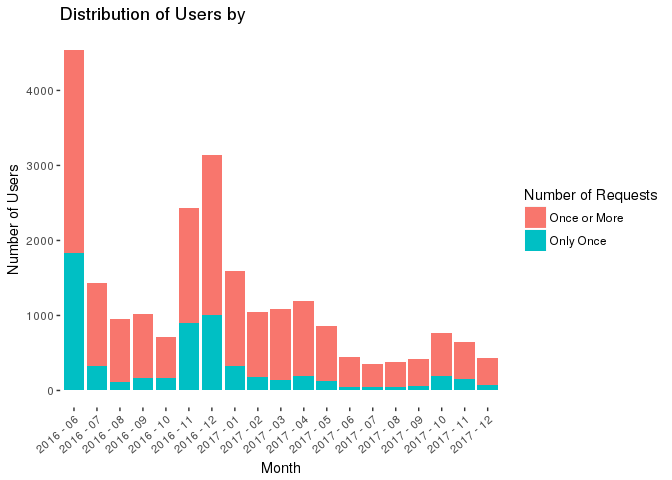
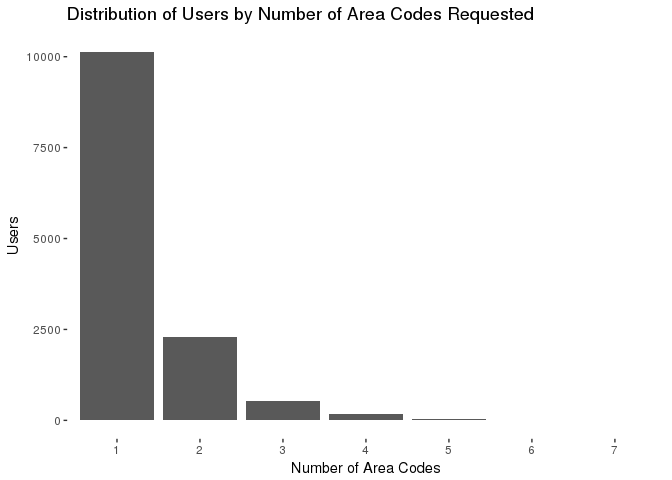
commit edited white paper

Changed region(s): [[0.0, 0.0938, 0.75, 1.0], [0.0938, 0.0, 0.8125, 0.0625], [0.7812, 0.375, 0.9688, 0.5312]]

diff --git a/White Paper/Final_White_Paper.md b/White Paper/Final_White_Paper.md
@@ -132,46 +132,112 @@ We began by characterizing the average user. In total, 13,239 different users re
 The above table shows the descriptive statistics of the distribution of the number of times individual users requested information. With a mean of 4.63 and median of 2, the distribution of the number of requests by individual users, suggesting that many of the system’s phone numbers request information only a few times.
 
 ``` r
-# Calcaulate the number of requests for each kind of information
+LTS_yearmonth <-  LTS_data %>%
+  mutate(Date = ymd(Date)) %>%
+  mutate(Year = year(Date), month = month(Date)) %>%
+  mutate(month = ifelse(nchar(as.character(month)) == 1, paste("0", sep = "", as.character(month)), as.character(month))) %>%
+  mutate(year_month = paste(as.character(Year), "-", month)) 
 
-Correct %>% 
-  filter(request <4, request > 0) %>%
-  group_by(request) %>%
-  summarise(num = n())
+p <- LTS_yearmonth %>%
+  filter(Type == "in") %>%
+  group_by(id) %>%
+  summarize(n = n()) %>%
+  filter(n == 1) %>%
+  select(id)
+pp <- as.vector(p$id)
+
+LTS_yearmonth %>%
+  mutate(only_once = id %in% pp) %>%
+  mutate(usage = ifelse(only_once == TRUE, "Only Once", "More Than Once")) %>%
+  group_by(year_month, usage) %>%
+  distinct(id)  %>%
+  summarize(n = n()) %>%
+  mutate(prop = n/sum(n)) %>%
+  mutate(only_once = usage) %>%
+  ggplot(aes(x = year_month, y = prop, fill = usage)) + geom_col()+
+  theme(axis.text.x = element_text(angle = 40, hjust = 1)) +
+ labs(title = "Proporiton of Users by Number of Information Requests", x = "Month", y = "Number of Users", fill = "Total") + theme(panel.grid.major = element_blank(), panel.grid.minor = element_blank(), panel.background = element_blank())
 ```
 
-    ## # A tibble: 3 x 2
-    ##   request   num
-    ##   <chr>   <int>
-    ## 1 1       36188
-    ## 2 2       14628
-    ## 3 3        1349
+![](Final_White_Paper_files/figure-markdown_github/unnamed-chunk-2-1.png)
 
 ``` r
-# Number of users asking for each kind of request
+LTS_yearmonth %>%
+  mutate(only_once = id %in% pp) %>%
+  mutate(usage = ifelse(only_once == TRUE, "Only Once", "More Than Once")) %>%
+  group_by(year_month, usage) %>%
+  distinct(id)  %>%
+  summarize(n = n()) %>%
+  mutate(prop = n/sum(n)) %>%
+  filter(usage == "Only Once") %>%
+  arrange(desc(prop))
+```
+
+    ## # A tibble: 19 x 4
+    ## # Groups:   year_month [19]
+    ##    year_month usage         n  prop
+    ##    <chr>      <chr>     <int> <dbl>
+    ##  1 2016 - 06  Only Once  1828 0.403
+    ##  2 2016 - 11  Only Once   905 0.372
+    ##  3 2016 - 12  Only Once  1007 0.321
+    ##  4 2017 - 10  Only Once   194 0.253
+    ##  5 2017 - 11  Only Once   151 0.232
+    ##  6 2016 - 10  Only Once   162 0.229
+    ##  7 2016 - 07  Only Once   321 0.225
+    ##  8 2017 - 01  Only Once   325 0.204
+    ##  9 2017 - 12  Only Once    79 0.181
+    ## 10 2017 - 02  Only Once   176 0.169
+    ## 11 2016 - 09  Only Once   170 0.167
+    ## 12 2017 - 04  Only Once   199 0.167
+    ## 13 2017 - 05  Only Once   120 0.140
+    ## 14 2017 - 09  Only Once    56 0.135
+    ## 15 2017 - 03  Only Once   141 0.129
+    ## 16 2016 - 08  Only Once   119 0.126
+    ## 17 2017 - 07  Only Once    43 0.122
+    ## 18 2017 - 08  Only Once    45 0.120
+    ## 19 2017 - 06  Only Once    49 0.111
+
+**Fig. 2** This bar plot represents the distribution of the proportion of unique users each month, separated into single-time users (blue) and users who requested information more than one time (red). Note that users counted in the red bar in one month may also be counted in the red bars in subsequent months.
+
+The graph above shows the monthly proportion of single-time versus multi-time users. Based on this distrubution, a significant proportion and consistent proportion of users appear to text into the LTS-2 system and then never request more information. The maximum proportion was in June 2016, at 40% with a minimum of 11% in June 2017. The peak in single-time users around November 2016 (37%) suggests an influx of new, single-time users, and is mirrored in a smaller peak around October/November 2017 (25 and 23% respetively). Any conclusion about seasonal usage is difficult given the newness of the LTS system, though the apparent trend seems to be towards fewer non-repeat users in the summer months (June, July, August, and September).
+
+``` r
+LTS_yearmonth%>%
+  filter(Type == "in") %>%
+  mutate(only_once = id %in% pp) %>%
+    mutate(usage = ifelse(only_once == TRUE, "Only Once", "More Than Once")) %>% group_by(usage) %>% distinct(id)  %>%
+     summarize(n = n())
+```
+
+    ## # A tibble: 2 x 2
+    ##   usage              n
+    ##   <chr>          <int>
+    ## 1 More Than Once  7241
+    ## 2 Only Once       5998
+
+| Usage Type     | Number of Users |
+|----------------|-----------------|
+| Total          | 13239           |
+| Once           | 5998            |
+| More Than Once | 7241            |
+
+**Table 3** Table of the number users who either requested information one time or more than one time compared to the total number users.
+
+To have a sense for the actual number of users who only used the system once, we generated the above table, which shows that there is a significant number of people who requested information a single time.
+
+``` r
+# Calculate the number of requests for each kind of information
 
 Correct %>% 
   filter(request <4, request > 0) %>%
-  distinct(id, .keep_all = TRUE) %>%
   group_by(request) %>%
   summarise(num = n()) %>%
-  arrange(desc(num))
+ggplot(aes(y = num, x = request)) + geom_col() + coord_flip() + labs(title = "Numbers of Requests by Information Type", x = "Type", y = "Number of Requests")
 ```
 
-    ## # A tibble: 3 x 2
-    ##   request   num
-    ##   <chr>   <int>
-    ## 1 1        8650
-    ## 2 2        2938
-    ## 3 3         288
+![](Final_White_Paper_files/figure-markdown_github/unnamed-chunk-4-1.png)
 
-| Type of Request  | Number of Requests |
-|------------------|--------------------|
-| 1-3 Day Forecast | 36,188             |
-| 4-6 Day Forecast | 14,628             |
-| Pasture          | 1,349              |
-
-**Table 2** Total counts of requests for each of the three types of information offered by the LTS-2 system: 1-3 day forecast, 4-6 day forecast, and pasture information.
+**Fig. 3** Counts of requests for each of the three types of information offered by the LTS-2 system represented by an integer between 1 and 3. 1 represents a request for a 1-3 day forecast, 2 represents a 4-6 day forecast, and 3 a pasture information.
 
 Users seem mostly interested in weather information. Of the approximately 52,000 correctly formatted messages (messages that contain only a five-digit area code, and a request code between 1 and 3), about 36,000 were for 1-3 day weather forecasts and 14,000 were for 4-6 day weather forecasts. In comparison, only about 1300 requests for pasture information, suggesting that weather information is the main type of information users are interested in.
 
@@ -188,7 +254,7 @@ In %>%
   ggplot(aes(x = n, y = nn)) + geom_col() + labs(title = "Distribution of Users by Number of Area Codes Requested", y = "Users", x = "Number of Area Codes") + theme(panel.grid.major = element_blank(), panel.grid.minor = element_blank(), panel.background = element_blank(),  axis.line = element_blank())
 ```
 
-![](Final_White_Paper_files/figure-markdown_github/unnamed-chunk-3-1.png)
+![](Final_White_Paper_files/figure-markdown_github/unnamed-chunk-5-1.png)
 
 ``` r
 In %>%
@@ -214,9 +280,9 @@ In %>%
     ## 10    10     4
     ## # ... with 23 more rows
 
-**Fig. 2** The distribution of number of area codes requested by service users. Most users only requested information about a single area code in the course of their use of the system.
+**Fig. 4** The distribution of number of area codes requested by service users. Most users only requested information about a single area code in the course of their use of the system.
 
-The above bar plot shows the distribution of the number of area codes for which users requested information. Most users only requested information for one area code (around 10,000) in their spand of their . Number of area codes drops off significantly after that, with about 2,500 users requesting 2. It’s difficult to know whether this pattern is at all related to the geographical location of users, because many users only queried the system a single time; however, using the shiny dashboard mapping geographical usage, it’s possible to gain some insight into the spatial distribution of users.
+The above bar plot shows the distribution of the number of area codes for which users requested information. Most users only requested information for one area code (around 10,000) in their spand of their . Number of area codes drops off significantly after that, with about 2,500 users requesting 2. It’s difficult to know whether this pattern is at all related to the geographical location of users, because many users only queried the system a single time; however, using the shiny dashboard mapping geographical usage, it’s possible to gain some insight into the spatial distribution of users. A general examination of the dashboard shows that requests are concentrated in the northern parts of the country. Apart from several southern area codes that receive a significant number of requests, there are almost no southern locations that receive forecast requests.
 
 ``` r
 bb <- In %>%
@@ -247,54 +313,20 @@ bb %>%
   theme(panel.grid.major = element_blank(), panel.grid.minor = element_blank(), panel.background = element_blank())
 ```
 
-![](Final_White_Paper_files/figure-markdown_github/unnamed-chunk-4-1.png)
+![](Final_White_Paper_files/figure-markdown_github/unnamed-chunk-6-1.png)
 
-**Fig. 3** Proportion of incoming messages that were incorrectly formatted and/or contained area codes that do not correspond real area codes.
+**Fig. 5** Proportion of incoming messages that were incorrectly formatted and/or contained area codes that do not correspond real area codes.
 
 The graph above shows the proportions of invalid messages each month, which are caused by incorrectly formatting and/or area codes that do not correspond to actual places. We see an overall decreasing pattern in the total proportion of invalid requests. The proportion of messages with incorrect formatting does not change much over time, while the use of non-existing area codes in messages tends to decrease. Incorrect formatting appears to be the most common and consistent type of user errors.
 
 Users were creative in their formatting of messages. Incorrect messages involved anything from requests for multiple types of information at a time or multiple area codes at a time, to entire sentences describing the information a user wanted. Given the relatively high proportion of incorrectly formatted messages over time, it may be helpful for the service to respond with formatting instructions to any unreadable messages. Currently, incorrectly formatted messages do not receive a response, so providing a response to incorrectly formatted messages may improve users’ interactions with the system.
 
-``` r
-LTS_yearmonth <-  LTS_data %>%
-  mutate(Date = ymd(Date)) %>%
-  mutate(Year = year(Date), month = month(Date)) %>%
-  mutate(month = ifelse(nchar(as.character(month)) == 1, paste("0", sep = "", as.character(month)), as.character(month))) %>%
-  mutate(year_month = paste(as.character(Year), "-", month)) 
+Looking at the ways individual users queried the system, a number of trends stand out. The first, given a mean 4.63 requests and a median of 2 requests per unique id, is that most users used the system a small number of times. Second, many users only query the system a single time, with monthly proportions of single-time users ranging between 11 and 40% between June 2016 and December 2017. Additionally, we found the majority of users only request information for a single area code. This observation may in part be due to the fact that many users only request information a single time. Finally, we found that incorrectly formatting message is a common user error, and is consistent over time. Focusing attention on improving user understanding of the system may improve peoples' experience with the system.
 
-p <- LTS_yearmonth %>%
-  filter(Type == "in") %>%
-  group_by(id) %>%
-  summarize(n = n()) %>%
-  filter(n == 1) %>%
-  select(id)
-pp <- as.vector(p$id)
+General Usage Patterns:
+=======================
 
-LTS_yearmonth %>%
-  mutate(only_once = id %in% pp) %>%
-  mutate(usage = ifelse(only_once == TRUE, "Only Once", "Once or More")) %>%
-  group_by(year_month, usage) %>%
-  distinct(id)  %>%
-  summarize(n = n()) %>%
-  mutate(prop = n/sum(n)) %>%
-  mutate(only_once = usage) %>%
-  ggplot(aes(x = year_month, y = n, fill = usage)) + geom_col()+
-  theme(axis.text.x = element_text(angle = 40, hjust = 1)) +
- labs(title = "Distribution of Users by ", x = "Month", y = "Number of Users", fill = "Number of Requests") + theme(panel.grid.major = element_blank(), panel.grid.minor = element_blank(), panel.background = element_blank())
-```
-
-![](Final_White_Paper_files/figure-markdown_github/unnamed-chunk-5-1.png)
-
-**Fig. 4** The dis
-
-The graph above shows the total number of users that texted into the system each month, along with the proportion of users that only ever text into the system once. Clearly, a significant portion of users text into the LTS-2 system and then never use it again. Any conclusion about seasonal usage is difficult given the newness of the LTS system, though the apparent trend seems to lower usage in the summer months (June, July, August, and September). Three months, in particular, stand out both as having the most number of users and a large proportion of one-time users: June, November, and December 2016.
-
-Looking at the ways individual users queried the system, two trends stand out. The first is that most users used the system a small number of times. The second is that the number of users is inconsistent over time.
-
-*General Patterns in Usage:*
-============================
-
-To get a better understanding of the ways users enter and exit the system, and to understand aggregate usage patterns, we looked at spatio-temporal usage.
+To get a better understanding of the ways users enter and exit the system, and to understand aggregate usage patterns, we focused at temporal usage.
 
 Since the dataset covers a relatively short period of time, we calculated monthly churn rates by dividing the number of users who used the system for the last time in a given month by the total number of users that month. The timeplot below shows this churn rate over time. Since we have no data for January 2018, December 2017 was excluded in the analysis.
 
@@ -363,7 +395,7 @@ ggplot(aes(x = date, y = churn)) + geom_line() + labs(title = "Monthly Churn Rat
 annotate("text", x = d, y = 0.62, label = c("November"))
 ```
 
-![](Final_White_Paper_files/figure-markdown_github/unnamed-chunk-6-1.png)
+![](Final_White_Paper_files/figure-markdown_github/unnamed-chunk-7-1.png)
 
 The system’s churn rate was relatively high, indicating that people are constantly entering and exiting the system. 2016 had consistently high churn rates, with a range between 60% and 80% between June and November of 2016, peaking in December at 96%, which was the highest churn rate throughout the year. Relative to 2016, 2017 saw low churn rates, with a range from 28% in July to 59% in October.
 
@@ -397,7 +429,7 @@ Out %>% mutate(month = month(Date), year = year(Date)) %>%
   labs(title = "Outgoing Messages by Weather Type", x = "Month", y ="Messages", fill = "Weather Type") 
 ```
 
-![](Final_White_Paper_files/figure-markdown_github/unnamed-chunk-7-1.png)
+![](Final_White_Paper_files/figure-markdown_github/unnamed-chunk-8-1.png)
 
 The above plot shows shows the distribution of weather types in outgoing forecasts by month. This graph uses the type weather forecasted - clouds, rain, snow, or sun - as an indicator of Mongolian weather patterns during a given month. While this provides only a rough sense of actual weather patterns, there does appear to noticeable seasonal patterns in types of weather forecasts, with snow forecasted in late fall into winter and early spring, and rain in spring/summer. Usage patterns appear to rise and fall with the appearance of snow, increasing in winter and dipping in summer. June 2016 has relatively high usage, though, is likely an outlier because the system started operation that month.
 
@@ -420,7 +452,7 @@ new_users %>%
     theme(panel.grid.major = element_blank(), panel.grid.minor = element_blank(), panel.background = element_blank())
 ```
 
-![](Final_White_Paper_files/figure-markdown_github/unnamed-chunk-8-1.png)
+![](Final_White_Paper_files/figure-markdown_github/unnamed-chunk-9-1.png)
 
 Mirroring the above graph of new users per month above (fig \#), the number of requests for information directed at the service decreased over time, again with a slight uptick around late fall and winter. The number of messages per month shows a more substantial drop in usage around summer time than number of new users. Still, the plots seem to map fairly well onto each other, as well as onto the above plot of the total number of users per month over time (fig \#). From this we conclude that there may be a trend in usage over time, but the time frame is too short to determine what processes might be behind that trend.
 
@@ -437,7 +469,7 @@ bb %>%
   theme(panel.grid.major = element_blank(), panel.grid.minor = element_blank(), panel.background = element_blank())
 ```
 
-![](Final_White_Paper_files/figure-markdown_github/unnamed-chunk-9-1.png)
+![](Final_White_Paper_files/figure-markdown_github/unnamed-chunk-10-1.png)
 
 Mirroring the above graph of new users per month above (fig \#), the number of requests for information directed at the service decreased over time, again with a slight uptick around late fall and winter. The number of messages per month shows a more substantial drop in usage around summer time than number of new users. Still, the plots seem to map fairly well onto each other, as well as onto the above plot of the total number of users per month over time (fig \#). From this we conclude that there may be a trend in usage over time, but the time frame is too short to determine what processes might be behind that trend.
 
